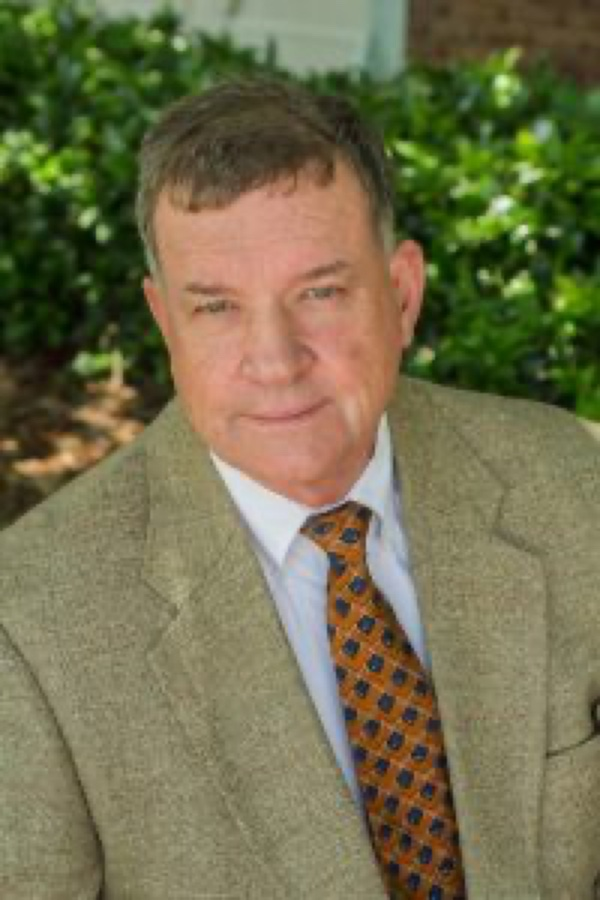
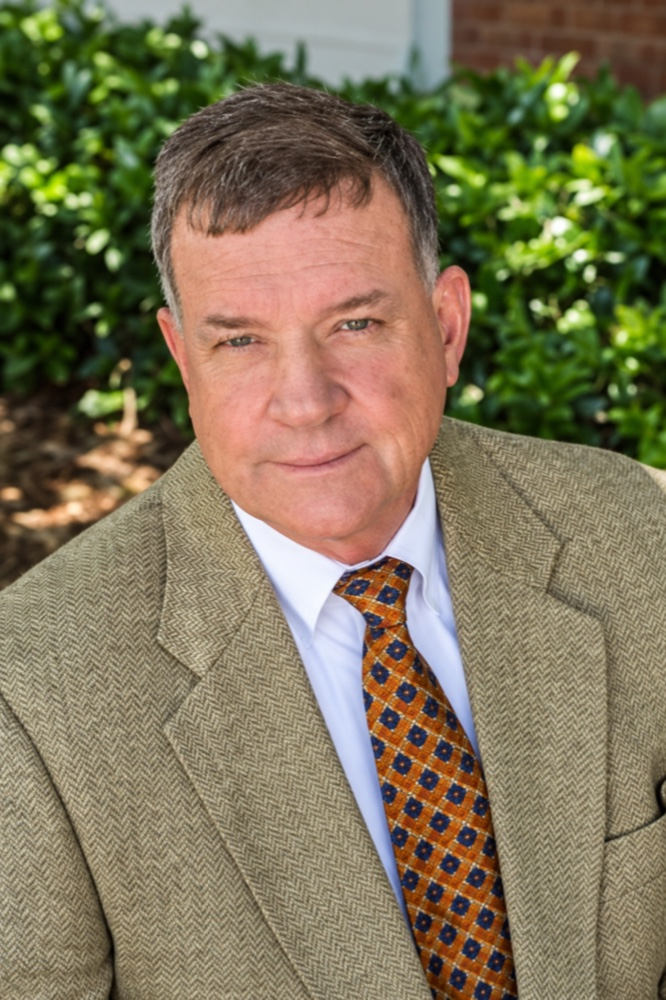
Restored doctor portraits; sky-blue stats bar (matches 'your'); welcome photo + smiles gallery (stock placeholders)

diff --git a/index.html b/index.html
@@ -195,13 +195,13 @@ body.menu-open{overflow:hidden}
 .hero__vsep{width:1px;height:20px;background:rgba(255,255,255,.3)}
 
 /* ===== STATS BAND ===== */
-.stats{position:relative;overflow:hidden;background:var(--brand-gradient)}
-.stats::before{content:"";position:absolute;inset:0;opacity:.4;background:radial-gradient(80% 120% at 0% 0%,rgba(255,255,255,.14),transparent 55%)}
+.stats{position:relative;overflow:hidden;background:linear-gradient(135deg,#8cccff 0%,#7cc4ff 50%,#64b5f3 100%)}
+.stats::before{content:"";position:absolute;inset:0;opacity:.5;background:radial-gradient(80% 120% at 0% 0%,rgba(255,255,255,.28),transparent 55%)}
 .stats__grid{position:relative;max-width:var(--wrap);margin:0 auto;padding:1.15rem var(--gutter);display:grid;grid-template-columns:repeat(4,1fr);gap:2rem}
-.stat{text-align:center;color:#fff}
-.stat .v{font-family:var(--serif);font-size:clamp(2rem,4vw,2.9rem);font-weight:700;line-height:1}
-.stat .v span{color:var(--champagne)}
-.stat .l{margin-top:.6rem;font-size:.88rem;color:rgba(255,255,255,.82);font-weight:500}
+.stat{text-align:center;color:var(--navy-900)}
+.stat .v{font-family:var(--serif);font-size:clamp(2rem,4vw,2.9rem);font-weight:700;line-height:1;color:var(--navy-900)}
+.stat .v span{color:#d6601c}
+.stat .l{margin-top:.6rem;font-size:.88rem;color:rgba(10,22,38,.72);font-weight:600}
 
 /* ===== SECTION SHELL ===== */
 .section{padding:clamp(4rem,9vh,7rem) 0}
@@ -573,11 +573,22 @@ body.menu-open{overflow:hidden}
   </div>
 </section>
 
-<!-- ===== GALLERY ===== -->
-<!-- ===== OFFICE GALLERY =====
-     Removed until real office photos exist. To re-enable, drop
-     office-1.jpg / office-2.jpg / office-3.jpg into assets/img and
-     restore the <section class="section gallery"> block (see git history). -->
+<!-- ===== GALLERY =====
+     NOTE: office-1/2/3.jpg are tasteful stock placeholders (Unsplash) to
+     convey care & bright smiles. Swap with real office/patient photos. -->
+<section class="section gallery">
+  <div class="container-x">
+    <div class="services__head reveal">
+      <span class="eyebrow">Smiles we care for</span>
+      <h2 class="section-title" style="margin-top:1rem">Healthy, happy smiles.</h2>
+    </div>
+    <div class="gal-grid">
+      <figure class="figpanel ratio-1-1 reveal"><img src="assets/img/office-1.jpg" alt="Gentle dental care in the chair" onerror="this.style.display='none'" /></figure>
+      <figure class="figpanel ratio-1-1 reveal"><img src="assets/img/office-2.jpg" alt="A happy, confident smile" onerror="this.style.display='none'" /></figure>
+      <figure class="figpanel ratio-1-1 reveal"><img src="assets/img/office-3.jpg" alt="Bright, healthy teeth" onerror="this.style.display='none'" /></figure>
+    </div>
+  </div>
+</section>
 
 <!-- ===== WHY CHOOSE US =====
      Replace with real patient reviews when available (see git history for the
